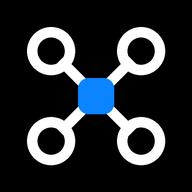
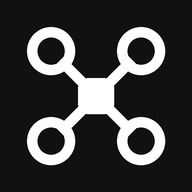
Make the site monochrome and white by default
Removes the blue accent. Color now only marks ok, warning and error states. Earlier visitors
are reset once to white, because the old default was saved for everyone.

Changed region(s): [[0.375, 0.375, 0.625, 0.625]]

diff --git a/src/styles.css b/src/styles.css
@@ -1,79 +1,82 @@
 /* Phone first. Larger screens only ever add room.
-   Dark is the default. Light applies with data-theme="light", or "auto" on a light device. */
+   White is the default. Dark applies with data-theme="dark", or "auto" on a dark device.
+   Monochrome on purpose: color is kept for ok, warning and error, so it always means something. */
 :root {
-  color-scheme: dark;
-  --bg: #000000;
-  --surface: #1c1c1e;
-  --sunken: #2c2c2e;
-  --ink: #f5f5f7;
-  --muted: #a1a1a6;
-  --faint: #6e6e73;
-  --line: rgba(255, 255, 255, .13);
-  --bar: rgba(22, 22, 23, .72);
-  --accent: #2997ff;
-  --accent-fill: #0a84ff;
-  --accent-ink: #ffffff;
-  --accent-soft: rgba(10, 132, 255, .18);
-  --ok: #30d158;
-  --ok-soft: rgba(48, 209, 88, .15);
-  --warn: #ff9f0a;
-  --warn-soft: rgba(255, 159, 10, .15);
-  --err: #ff453a;
-  --err-soft: rgba(255, 69, 58, .16);
-  --info: #64d2ff;
-  --info-soft: rgba(100, 210, 255, .13);
-  --shadow: none;
-  --r: 20px;
-  --r-s: 14px;
-  --tab-h: 58px;
-  --font: -apple-system, BlinkMacSystemFont, "SF Pro Text", "SF Pro Display", "Helvetica Neue", "Segoe UI", Roboto, "PingFang SC", "Hiragino Sans GB", "Microsoft YaHei", "Noto Sans SC", Arial, sans-serif;
-}
-:root[data-theme="light"] {
   color-scheme: light;
-  --bg: #f5f5f7;
-  --surface: #ffffff;
+  --bg: #ffffff;
+  --surface: #f5f5f7;
   --sunken: #e8e8ed;
-  --ink: #1d1d1f;
-  --muted: #6e6e73;
-  --faint: #86868b;
-  --line: rgba(0, 0, 0, .11);
-  --bar: rgba(255, 255, 255, .72);
-  --accent: #0066cc;
-  --accent-fill: #0071e3;
-  --accent-soft: rgba(0, 113, 227, .1);
+  --ink: #111113;
+  --muted: #5f5f66;
+  --faint: #8a8a91;
+  --line: rgba(0, 0, 0, .1);
+  --bar: rgba(255, 255, 255, .78);
+  --accent: #111113;
+  --accent-fill: #111113;
+  --accent-ink: #ffffff;
+  --accent-soft: rgba(0, 0, 0, .06);
   --ok: #1a7f37;
   --ok-soft: rgba(36, 138, 61, .11);
   --warn: #a35200;
   --warn-soft: rgba(201, 100, 0, .11);
   --err: #c9190b;
   --err-soft: rgba(215, 0, 21, .09);
-  --info: #0b6e99;
-  --info-soft: rgba(0, 113, 164, .1);
-  --shadow: 0 2px 12px rgba(0, 0, 0, .05);
+  --info: #111113;
+  --info-soft: #f0f0f2;
+  --shadow: none;
+  --r: 20px;
+  --r-s: 14px;
+  --tab-h: 58px;
+  --font: -apple-system, BlinkMacSystemFont, "SF Pro Text", "SF Pro Display", "Helvetica Neue", "Segoe UI", Roboto, "PingFang SC", "Hiragino Sans GB", "Microsoft YaHei", "Noto Sans SC", Arial, sans-serif;
 }
-@media (prefers-color-scheme: light) {
+:root[data-theme="dark"] {
+  color-scheme: dark;
+  --bg: #000000;
+  --surface: #161617;
+  --sunken: #2a2a2c;
+  --ink: #f5f5f7;
+  --muted: #a1a1a6;
+  --faint: #6e6e73;
+  --line: rgba(255, 255, 255, .13);
+  --bar: rgba(0, 0, 0, .72);
+  --accent: #f5f5f7;
+  --accent-fill: #f5f5f7;
+  --accent-ink: #000000;
+  --accent-soft: rgba(255, 255, 255, .1);
+  --ok: #30d158;
+  --ok-soft: rgba(48, 209, 88, .15);
+  --warn: #ff9f0a;
+  --warn-soft: rgba(255, 159, 10, .15);
+  --err: #ff453a;
+  --err-soft: rgba(255, 69, 58, .16);
+  --info: #f5f5f7;
+  --info-soft: #1f1f21;
+  --shadow: none;
+}
+@media (prefers-color-scheme: dark) {
   :root[data-theme="auto"] {
-    color-scheme: light;
-    --bg: #f5f5f7;
-    --surface: #ffffff;
-    --sunken: #e8e8ed;
-    --ink: #1d1d1f;
-    --muted: #6e6e73;
-    --faint: #86868b;
-    --line: rgba(0, 0, 0, .11);
-    --bar: rgba(255, 255, 255, .72);
-    --accent: #0066cc;
-    --accent-fill: #0071e3;
-    --accent-soft: rgba(0, 113, 227, .1);
-    --ok: #1a7f37;
-    --ok-soft: rgba(36, 138, 61, .11);
-    --warn: #a35200;
-    --warn-soft: rgba(201, 100, 0, .11);
-    --err: #c9190b;
-    --err-soft: rgba(215, 0, 21, .09);
-    --info: #0b6e99;
-    --info-soft: rgba(0, 113, 164, .1);
-    --shadow: 0 2px 12px rgba(0, 0, 0, .05);
+    color-scheme: dark;
+    --bg: #000000;
+    --surface: #161617;
+    --sunken: #2a2a2c;
+    --ink: #f5f5f7;
+    --muted: #a1a1a6;
+    --faint: #6e6e73;
+    --line: rgba(255, 255, 255, .13);
+    --bar: rgba(0, 0, 0, .72);
+    --accent: #f5f5f7;
+    --accent-fill: #f5f5f7;
+    --accent-ink: #000000;
+    --accent-soft: rgba(255, 255, 255, .1);
+    --ok: #30d158;
+    --ok-soft: rgba(48, 209, 88, .15);
+    --warn: #ff9f0a;
+    --warn-soft: rgba(255, 159, 10, .15);
+    --err: #ff453a;
+    --err-soft: rgba(255, 69, 58, .16);
+    --info: #f5f5f7;
+    --info-soft: #1f1f21;
+    --shadow: none;
   }
 }
 
@@ -93,7 +96,7 @@ button, input, select, textarea { font: inherit; color: inherit; letter-spacing:
 input, select, textarea { font-size: 17px; } /* below 16px, iOS zooms the page on focus */
 :focus-visible { outline: 3px solid var(--accent); outline-offset: 2px; border-radius: 8px; }
 img { max-width: 100%; display: block; }
-::selection { background: var(--accent-soft); }
+::selection { background: var(--ink); color: var(--bg); }
 
 .wrap { max-width: 1024px; margin: 0 auto; padding: 0 20px; }
 .narrow { max-width: 680px; }
@@ -137,12 +140,13 @@ main { padding-bottom: calc(var(--tab-h) + 40px + env(safe-area-inset-bottom)); 
 }
 
 /* Buttons */
-.btn { display: inline-flex; align-items: center; justify-content: center; gap: 7px; min-height: 48px; padding: 0 24px; border-radius: 980px; border: 0; font-weight: 500; font-size: 17px; letter-spacing: -.018em; cursor: pointer; text-decoration: none; background: var(--accent-fill); color: var(--accent-ink); text-align: center; line-height: 1.18; transition: filter .15s, background .15s, transform .1s; }
-.btn:hover { filter: brightness(1.1); }
+.btn { display: inline-flex; align-items: center; justify-content: center; gap: 7px; min-height: 48px; padding: 0 24px; border-radius: 980px; border: 0; font-weight: 500; font-size: 17px; letter-spacing: -.018em; cursor: pointer; text-decoration: none; background: var(--accent-fill); color: var(--accent-ink); text-align: center; line-height: 1.18; transition: opacity .15s, background .15s, transform .1s; }
+.btn:hover { opacity: .82; }
 .btn:active { transform: scale(.98); }
+.btn.quiet:hover { opacity: 1; }
 .btn:disabled { opacity: .4; cursor: not-allowed; }
 .btn.secondary { background: var(--sunken); color: var(--ink); }
-.btn.quiet { background: transparent; color: var(--accent); }
+.btn.quiet { background: transparent; color: var(--ink); }
 .btn.quiet:hover { filter: none; text-decoration: underline; }
 .btn.small { min-height: 40px; padding: 0 16px; font-size: 15px; }
 .btn.danger { color: var(--err); background: var(--sunken); }
@@ -150,8 +154,8 @@ main { padding-bottom: calc(var(--tab-h) + 40px + env(safe-area-inset-bottom)); 
 .btn svg { width: 17px; height: 17px; flex: none; }
 .btn-row { display: flex; gap: 10px; flex-wrap: wrap; }
 .btn-row .btn { flex: 1 1 150px; }
-.link { color: var(--accent); text-decoration: none; background: none; border: 0; padding: 0; cursor: pointer; font-size: inherit; text-align: left; }
-.link:hover { text-decoration: underline; }
+.link { color: var(--ink); text-decoration: underline; text-decoration-thickness: 1px; text-underline-offset: 3px; text-decoration-color: var(--faint); background: none; border: 0; padding: 0; cursor: pointer; font-size: inherit; text-align: left; }
+.link:hover { text-decoration-color: currentColor; }
 
 /* Cards */
 .card { background: var(--surface); border-radius: var(--r); padding: 20px; box-shadow: var(--shadow); }
@@ -212,7 +216,7 @@ button.li:hover, a.li:hover { background: color-mix(in srgb, var(--sunken) 55%, 
 .li .title { font-weight: 500; line-height: 1.28; }
 .li .sub { font-size: 14px; color: var(--muted); line-height: 1.32; margin-top: 1px; letter-spacing: -.006em; }
 .li .right, .pick .right { flex: none; text-align: right; white-space: nowrap; }
-.back-link { display: inline-flex; align-items: center; gap: 2px; min-height: 36px; margin-bottom: 4px; font-size: 16px; }
+.back-link { text-decoration: none; display: inline-flex; align-items: center; gap: 2px; min-height: 36px; margin-bottom: 4px; font-size: 16px; }
 .back-link svg { width: 17px; height: 17px; }
 .li svg.chev { width: 15px; height: 15px; color: var(--faint); flex: none; }
 .dot { flex: none; width: 9px; height: 9px; border-radius: 50%; background: var(--sunken); }
@@ -229,7 +233,7 @@ button.li:hover, a.li:hover { background: color-mix(in srgb, var(--sunken) 55%, 
 .check { display: flex; gap: 12px; align-items: flex-start; padding: 14px 16px 14px 18px; cursor: pointer; }
 .check input { flex: none; appearance: none; -webkit-appearance: none; width: 24px; height: 24px; margin: 0; border-radius: 50%; border: 1.5px solid var(--faint); background: transparent; cursor: pointer; display: grid; place-items: center; transition: background .15s, border-color .15s; }
 .check input:checked { background: var(--accent-fill); border-color: var(--accent-fill); }
-.check input:checked::after { content: ""; width: 6px; height: 11px; margin-top: -2px; border: solid #fff; border-width: 0 2px 2px 0; transform: rotate(45deg); }
+.check input:checked::after { content: ""; width: 6px; height: 11px; margin-top: -2px; border: solid var(--accent-ink); border-width: 0 2px 2px 0; transform: rotate(45deg); }
 .check.done .title { color: var(--muted); }
 
 /* Notices */

diff --git a/src/components/Viewer3D.jsx b/src/components/Viewer3D.jsx
@@ -25,7 +25,7 @@ function build(canvas, sel, dark) {
   const mat = (color, rough = 0.45, metal = 0.2) => new THREE.MeshStandardMaterial({ color, roughness: rough, metalness: metal });
   const carbon = mat(dark ? 0x4a4c55 : 0x2b2c31);
   const metal = mat(dark ? 0x888a95 : 0x6a6b73, 0.25, 0.85);
-  const accent = mat(0x0a84ff, 0.4, 0.1);
+  const accent = mat(0x8e8e93, 0.4, 0.1);
   const pcb = mat(0x1f5a39, 0.6, 0.1);
   const drone = new THREE.Group();
   const pW = 0.036 * sc;
@@ -63,7 +63,7 @@ function build(canvas, sel, dark) {
         const spin = new THREE.Group();
         spin.position.y = 0.011;
         spin.userData.dir = i % 2 ? 1 : -1;
-        const disc = new THREE.Mesh(new THREE.CylinderGeometry(propDisc, propDisc, 0.0006, 36), new THREE.MeshStandardMaterial({ color: 0x0a84ff, transparent: true, opacity: 0.12 }));
+        const disc = new THREE.Mesh(new THREE.CylinderGeometry(propDisc, propDisc, 0.0006, 36), new THREE.MeshStandardMaterial({ color: 0x8e8e93, transparent: true, opacity: 0.12 }));
         spin.add(disc);
         const blades = sel.prop.bl;
         for (let b = 0; b < blades; b += 1) {

diff --git a/index.html b/index.html
@@ -6,14 +6,14 @@
     <title>Thrustworthy: build a drone you can trust</title>
     <meta name="description" content="From first idea to first flight. Compatibility-checked drone builds for beginners, FPV pilots, filmmakers and researchers, on Betaflight, INAV, ArduPilot or PX4, with the rules and shops for your country." />
     <meta name="author" content="Anoorag Sunkari" />
-    <meta name="theme-color" content="#000000" />
+    <meta name="theme-color" content="#ffffff" />
     <script>
       try {
         var s = JSON.parse(localStorage.getItem('thrustworthy:v1') || '{}');
-        var th = s.profile && s.profile.theme;
-        document.documentElement.dataset.theme = th === 'light' || th === 'auto' ? th : 'dark';
+        var th = s.themeVersion === 2 && s.profile && s.profile.theme;
+        document.documentElement.dataset.theme = th === 'dark' || th === 'auto' ? th : 'light';
       } catch (e) {
-        document.documentElement.dataset.theme = 'dark';
+        document.documentElement.dataset.theme = 'light';
       }
     </script>
     <meta property="og:title" content="Thrustworthy" />

diff --git a/src/components/ui.jsx b/src/components/ui.jsx
@@ -46,12 +46,12 @@ export const HeroDrone = () => {
     <svg className="hero-art" viewBox="0 0 200 200" role="img" aria-label={t('A quadcopter seen from above')}>
       <g stroke="currentColor" strokeWidth="6" strokeLinecap="round"><path d="M64 64l72 72M136 64l-72 72" /></g>
       <rect x="76" y="70" width="48" height="60" rx="12" fill="var(--bg)" stroke="currentColor" strokeWidth="4" />
-      <rect x="88" y="82" width="24" height="22" rx="5" fill="var(--accent-fill)" />
+      <rect x="88" y="82" width="24" height="22" rx="5" fill="currentColor" />
       {props.map(([x, y, rev], i) => (
         <g key={i}>
           <circle cx={x} cy={y} r="36" fill="none" stroke="var(--line)" strokeWidth="2" />
           <g className={`prop ${rev ? 'rev' : ''}`}>
-            <ellipse cx={x} cy={y} rx="32" ry="5" fill="var(--accent-fill)" opacity=".85" />
+            <ellipse cx={x} cy={y} rx="32" ry="4.500" fill="currentColor" opacity=".55" />
           </g>
           <circle cx={x} cy={y} r="9" fill="var(--bg)" stroke="currentColor" strokeWidth="4" />
         </g>

diff --git a/src/lib/store.js b/src/lib/store.js
@@ -4,9 +4,10 @@ import { useSyncExternalStore } from 'react';
 
 const KEY = 'thrustworthy:v1';
 const BLANK = {
-  profile: { persona: null, region: null, level: null, firmware: null, lang: null, theme: 'dark' },
+  profile: { persona: null, region: null, level: null, firmware: null, lang: null, theme: 'light' },
   projects: {},
   logs: [],
+  themeVersion: 2,
   lastVisit: null,
   seenAt: null,
 };
@@ -16,7 +17,8 @@ function read() {
     const raw = localStorage.getItem(KEY);
     if (!raw) return structuredClone(BLANK);
     const s = JSON.parse(raw);
-    if (s.profile?.theme === 'system') s.profile.theme = 'dark'; // the old default, before dark became it
+    // Earlier versions saved a default theme for every visitor, so reset it once to the white default.
+    if (s.themeVersion !== 2) { s.themeVersion = 2; if (s.profile) s.profile.theme = 'light'; }
     return { ...BLANK, ...s, profile: { ...BLANK.profile, ...s.profile } };
   } catch {
     return structuredClone(BLANK);

diff --git a/src/pages/Me.jsx b/src/pages/Me.jsx
@@ -136,9 +136,9 @@ export function Me() {
             </select>
           </label>
           <label className="field"><span>{t('Appearance')}</span>
-            <select className="input" value={profile.theme || 'dark'} onChange={(e) => setProfile({ theme: e.target.value })}>
-              <option value="dark">{t('Dark')}</option>
+            <select className="input" value={profile.theme || 'light'} onChange={(e) => setProfile({ theme: e.target.value })}>
               <option value="light">{t('Light')}</option>
+              <option value="dark">{t('Dark')}</option>
               <option value="auto">{t('Match my device')}</option>
             </select>
           </label>

diff --git a/src/App.jsx b/src/App.jsx
@@ -63,7 +63,7 @@ export default function App() {
   const { profile } = useStore();
   const isLight = profile.theme === 'light' || (profile.theme === 'auto' && window.matchMedia('(prefers-color-scheme: light)').matches);
   useEffect(() => {
-    document.documentElement.dataset.theme = profile.theme || 'dark';
+    document.documentElement.dataset.theme = profile.theme || 'light';
   }, [profile.theme]);
 
   return (
